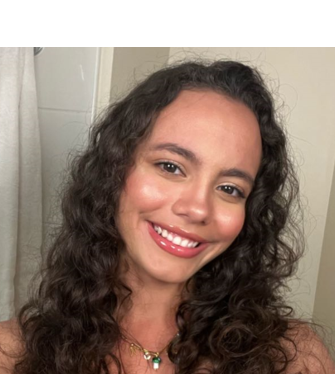
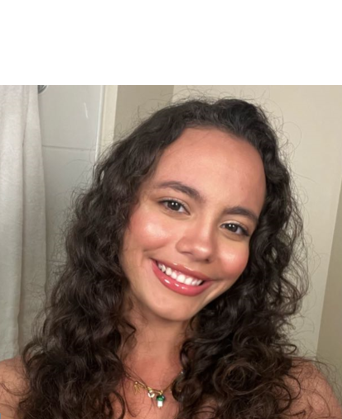
Atualiza foto e tabela v-1.1

diff --git a/_sass/layout.scss b/_sass/layout.scss
@@ -117,6 +117,7 @@ section {
 		background-color: #00250c;
 		color: goldenrod;
 		border-top: 2px solid #ddd; /* borda superior */
+		border-bottom: 2px solid #ddd; /* borda inferior */
 	}
 	tr:last-child td {
 		border-bottom: none; /* remover borda inferior da última linha */

diff --git a/_staff_members/98-Mesquita.md b/_staff_members/98-Mesquita.md
@@ -2,6 +2,6 @@
 name: Lucas Mesquita
 position: Graduando
 image_path: /images/stafff/MSQ.png
-link: https://www.linkedin.com/in/lucas-mesquita-santiago-06095b2aa/
+link: https://lattes.cnpq.br/8314999663353638
 blurb:
 ---
